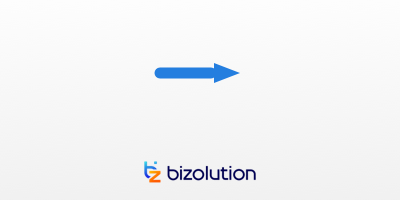
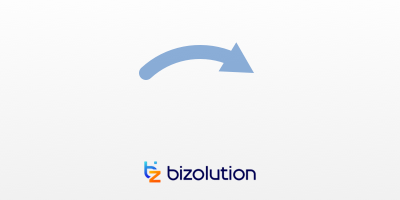
DMG-Hintergrund: Pfeil als PNG-Asset und Komposition vereinheitlicht
- RenderDMGBackground zeichnet Verlauf, dmg_arrow.png (50 % Deckkraft) und Footer-Logo; Pfade über Resources.
- dmg_arrow.png und optionales BakeDMGArrowPNG.swift; Mockup-Referenz unter docs/mockups/.
- dmg_layout_constants: DMG_ICON_Y wieder 70 (Finder-Kalibrierung), Kommentar zur Abweichung vom theoretischen iconYFinder.
- DMG_HINTERGRUND.txt, README und Cursor-Regeln um Pipeline und Ablage ergänzt.

Made-with: Cursor

Changed region(s): [[0.33, 0.21, 0.63, 0.42]]

diff --git a/Scripts/RenderDMGBackground.swift b/Scripts/RenderDMGBackground.swift
@@ -1,12 +1,12 @@
 #!/usr/bin/env swift
 // Erzeugt Scripts/dmg_install_background.png — **400×200 @72dpi** (feste Vorgabe).
-// Außenfenster: dmg_layout_constants.sh (gleiche Zahl wie PNG-Breite/-höhe oder minimal +Chrome).
 //
-// Vorgaben (top-down, y nach unten, Ursprung oben links):
-// - Logo unten, 10 px zum unteren Rand, horizontal mittig.
-// - Pfeil: horizontal Bildmitte W/2; vertikal Mitte zwischen y=0 und (Logo-Oberkante − 10 px).
-//   Die Pfeilmitte (Schaft) liegt genau auf diesem Punkt; Finder-Icons: vertikal Icon-Mitte = Pfeilmitte.
-// Zeichnung intern Cocoa (y nach oben): rowCocoa = H − y_td.
+// Ablage: Pfeil und Footer-Logo liegen unter Sources/TradeERPLauncherLib/Resources/ (mit den übrigen Marken-Assets);
+// das fertige Hintergrund-PNG liegt unter Scripts/ (Build-Ausgabe, nicht im App-Bundle). Layout-Zahlen für
+// create-dmg: Scripts/dmg_layout_constants.sh — bei Geometrie-Änderungen Renderer und Shell synchron halten.
+// Details: Scripts/DMG_HINTERGRUND.txt
+//
+// Zeichnung: Verlauf → Pfeil-PNG (zentriert, Opacity siehe dmgArrowOpacity) → Logo (rsvg). Cocoa: y nach oben.
 
 import AppKit
 import Foundation
@@ -14,7 +14,8 @@ import Foundation
 let W: CGFloat = 400
 let H: CGFloat = 200
 let iconSize: CGFloat = 88
-let brandAccent = NSColor(red: 0x24 / 255, green: 0x7E / 255, blue: 0xDF / 255, alpha: 1)
+/// Pfeil-PNG: `NSImage.draw(…, fraction:)` — 0…1, visuell 50 % Deckkraft.
+let dmgArrowOpacity: CGFloat = 0.5
 
 /// Footer-Logo: Breite und Höhe in **PNG-Punkten** (klar lesbar; bei anderem Motiv beide Werte anpassen).
 /// Footer-Logo: `bizolution-logo-farbe-rgb.svg` (viewBox ~3,69∶1).
@@ -31,8 +32,8 @@ let arrowCenterTD: CGFloat = (0 + bandBottomTD) / 2
 /// Pfeilmitte horizontal: Bildmitte
 let arrowCenterX: CGFloat = W / 2
 
-/// Icon-Mitten: horizontal symmetrisch um Pfeil, Abstand so dass 88-px-Icons nicht kollidieren (Pfeilhalblänge 40).
-let arrowHalf: CGFloat = 40
+/// Icon-Mitten: horizontal symmetrisch um Pfeil; Pfeilbreite entspricht `dmg_arrow.png`-Layout (arrowHalf).
+let arrowHalf: CGFloat = 54
 let iconGap: CGFloat = 20
 let iconCenterXLeft: CGFloat = arrowCenterX - arrowHalf - iconGap - iconSize / 2
 let iconCenterXRight: CGFloat = arrowCenterX + arrowHalf + iconGap + iconSize / 2
@@ -41,9 +42,9 @@ let iconCenterXRight: CGFloat = arrowCenterX + arrowHalf + iconGap + iconSize / 
 let iconYFinder: CGFloat = H - arrowCenterTD
 
 // create-dmg-Positionen müssen mit Scripts/dmg_layout_constants.sh übereinstimmen:
-//   DMG_ICON_X  = Int(round(iconCenterXLeft))
-//   DMG_DROP_X  = Int(round(iconCenterXRight))
-//   DMG_ICON_Y  = Int(round(iconYFinder))
+//   DMG_ICON_X  = Int(round(iconCenterXLeft))   // arrowHalf=54 → 82
+//   DMG_DROP_X  = Int(round(iconCenterXRight)) // → 318
+//   DMG_ICON_Y  = in dmg_layout_constants.sh (Finder-Kalibrierung, oft ≠ iconYFinder)
 
 func projectRoot() -> String {
     if CommandLine.arguments.count > 1 { return CommandLine.arguments[1] }
@@ -76,54 +77,21 @@ func renderLogoPNG(svgPath: String, widthPx: Int) -> NSImage? {
     return nil
 }
 
-func drawArrowHorizontal(from: NSPoint, to: NSPoint, lineWidth: CGFloat, color: NSColor) {
-    color.setStroke()
-    color.setFill()
-
-    let dx = to.x - from.x
-    let dy = to.y - from.y
-    let len = max(hypot(dx, dy), 1)
-    let ux = dx / len
-    let uy = dy / len
-    let headLen: CGFloat = 26
-    let headW: CGFloat = 20
-    let tip = to
-    let base = NSPoint(x: to.x - ux * headLen, y: to.y - uy * headLen)
-    let perpX = -uy * headW * 0.5
-    let perpY = ux * headW * 0.5
-    let left = NSPoint(x: base.x + perpX, y: base.y + perpY)
-    let right = NSPoint(x: base.x - perpX, y: base.y - perpY)
-    let shaftEnd = NSPoint(x: base.x - ux * 3, y: base.y - uy * 3)
-
-    let path = NSBezierPath()
-    path.lineWidth = lineWidth
-    path.lineCapStyle = .round
-    path.lineJoinStyle = .round
-    path.move(to: from)
-    path.line(to: shaftEnd)
-    path.stroke()
-
-    let headPath = NSBezierPath()
-    headPath.move(to: left)
-    headPath.line(to: tip)
-    headPath.line(to: right)
-    headPath.close()
-    headPath.fill()
-}
-
-func drawImage(_ image: NSImage, in rect: NSRect) {
+func drawImage(_ image: NSImage, in rect: NSRect, fraction: CGFloat = 1) {
     let sz = image.size
     guard sz.width > 0, sz.height > 0 else { return }
     image.draw(
         in: rect,
         from: NSRect(origin: .zero, size: sz),
         operation: .sourceOver,
-        fraction: 1
+        fraction: fraction
     )
 }
 
 let root = projectRoot()
-let svgLogo = (root as NSString).appendingPathComponent("Sources/TradeERPLauncherLib/Resources/bizolution-logo-farbe-rgb.svg")
+let resDir = (root as NSString).appendingPathComponent("Sources/TradeERPLauncherLib/Resources")
+let svgLogo = (resDir as NSString).appendingPathComponent("bizolution-logo-farbe-rgb.svg")
+let arrowPNG = (resDir as NSString).appendingPathComponent("dmg_arrow.png")
 let outPath = (root as NSString).appendingPathComponent("Scripts/dmg_install_background.png")
 
 let Wi = Int(W)
@@ -153,14 +121,19 @@ let grad = NSGradient(colors: [bgBot, bgTop], atLocations: [0, 1], colorSpace: N
 grad.draw(in: NSRect(x: 0, y: 0, width: W, height: H), angle: 90)
 
 let rowCenterCocoa = H - arrowCenterTD
-let ax1 = arrowCenterX - arrowHalf
-let ax2 = arrowCenterX + arrowHalf
-drawArrowHorizontal(
-    from: NSPoint(x: ax1, y: rowCenterCocoa),
-    to: NSPoint(x: ax2, y: rowCenterCocoa),
-    lineWidth: 11,
-    color: brandAccent
-)
+if let arrow = NSImage(contentsOfFile: arrowPNG) {
+    let aw = arrow.size.width
+    let ah = arrow.size.height
+    let arrowRect = NSRect(
+        x: arrowCenterX - aw / 2,
+        y: rowCenterCocoa - ah / 2,
+        width: aw,
+        height: ah
+    )
+    drawImage(arrow, in: arrowRect, fraction: dmgArrowOpacity)
+} else {
+    fputs("Hinweis: Pfeil-PNG fehlt (\(arrowPNG)) — Hintergrund ohne Pfeil. Datei anlegen oder `swift Scripts/BakeDMGArrowPNG.swift` ausführen.\n", stderr)
+}
 
 let logoRect = NSRect(
     x: (W - logoW) / 2,

diff --git a/Scripts/BakeDMGArrowPNG.swift b/Scripts/BakeDMGArrowPNG.swift
@@ -1,0 +1,145 @@
+#!/usr/bin/env swift
+// Optional: schreibt Sources/TradeERPLauncherLib/Resources/dmg_arrow.png (240×120 @1x, transparent).
+// Üblich: Pfeil im Grafikprogramm bearbeiten. Dieses Skript nur, wenn dieselbe Kurve wie früher reproduziert
+// werden soll — siehe Scripts/DMG_HINTERGRUND.txt
+// Aufruf: swift Scripts/BakeDMGArrowPNG.swift [<repo-root>]
+//
+// Geometrie: **arrowHalf** und **arrowBulge** müssen mit Scripts/RenderDMGBackground.swift übereinstimmen.
+// bakeW×bakeH: Pfeil zentriert wie im 400×200-Hintergrund; bei geänderter Asset-Größe Renderer-Rect prüfen.
+
+import AppKit
+import CoreGraphics
+import Foundation
+
+let arrowHalf: CGFloat = 54
+let arrowBulge: CGFloat = 28
+let lineWidth: CGFloat = 14
+let headLen: CGFloat = 36
+let headW: CGFloat = 34
+
+let bakeW: CGFloat = 240
+let bakeH: CGFloat = 120
+let arrowBlueDark = NSColor(red: 0x1a / 255, green: 0x5f / 255, blue: 0xb4 / 255, alpha: 1)
+
+func cubicPoint(_ t: CGFloat, _ p0: CGPoint, _ p1: CGPoint, _ p2: CGPoint, _ p3: CGPoint) -> CGPoint {
+    let mt = 1 - t
+    let a = mt * mt * mt
+    let b = 3 * mt * mt * t
+    let c = 3 * mt * t * t
+    let d = t * t * t
+    return CGPoint(
+        x: a * p0.x + b * p1.x + c * p2.x + d * p3.x,
+        y: a * p0.y + b * p1.y + c * p2.y + d * p3.y
+    )
+}
+
+func splitCubicLeft(u: CGFloat, p0: CGPoint, p1: CGPoint, p2: CGPoint, p3: CGPoint) -> (CGPoint, CGPoint, CGPoint, CGPoint) {
+    let p01 = CGPoint(x: (1 - u) * p0.x + u * p1.x, y: (1 - u) * p0.y + u * p1.y)
+    let p12 = CGPoint(x: (1 - u) * p1.x + u * p2.x, y: (1 - u) * p1.y + u * p2.y)
+    let p23 = CGPoint(x: (1 - u) * p2.x + u * p3.x, y: (1 - u) * p2.y + u * p3.y)
+    let p012 = CGPoint(x: (1 - u) * p01.x + u * p12.x, y: (1 - u) * p01.y + u * p12.y)
+    let p123 = CGPoint(x: (1 - u) * p12.x + u * p23.x, y: (1 - u) * p12.y + u * p23.y)
+    let p0123 = CGPoint(x: (1 - u) * p012.x + u * p123.x, y: (1 - u) * p012.y + u * p123.y)
+    return (p0, p01, p012, p0123)
+}
+
+func projectRoot() -> String {
+    if CommandLine.arguments.count > 1 { return CommandLine.arguments[1] }
+    let cwd = FileManager.default.currentDirectoryPath
+    if cwd.hasSuffix("/Scripts") { return (cwd as NSString).deletingLastPathComponent }
+    return cwd
+}
+
+let root = projectRoot()
+let outPNG = (root as NSString).appendingPathComponent("Sources/TradeERPLauncherLib/Resources/dmg_arrow.png")
+
+let centerX = bakeW / 2
+let rowCocoa = bakeH / 2
+let ax1 = centerX - arrowHalf
+let ax2 = centerX + arrowHalf
+let span = ax2 - ax1
+let p0 = CGPoint(x: ax1, y: rowCocoa)
+let p1 = CGPoint(x: ax1 + span * 0.28, y: rowCocoa + arrowBulge)
+let p2 = CGPoint(x: ax1 + span * 0.72, y: rowCocoa + arrowBulge)
+let p3 = CGPoint(x: ax2, y: rowCocoa)
+
+let targetShaftToTip = headLen - lineWidth * 0.35
+var tLo: CGFloat = 0
+var tHi: CGFloat = 1
+for _ in 0 ..< 50 {
+    let mid = (tLo + tHi) * 0.5
+    let pm = cubicPoint(mid, p0, p1, p2, p3)
+    let dTip = hypot(p3.x - pm.x, p3.y - pm.y)
+    if dTip > targetShaftToTip {
+        tLo = mid
+    } else {
+        tHi = mid
+    }
+}
+let tCut = max(0.02, min((tLo + tHi) * 0.5, 0.998))
+
+let (q0, q1, q2, q3) = splitCubicLeft(u: tCut, p0: p0, p1: p1, p2: p2, p3: p3)
+let spine = CGMutablePath()
+spine.move(to: q0)
+spine.addCurve(to: q3, control1: q1, control2: q2)
+
+let ribbon = spine.copy(
+    strokingWithWidth: lineWidth,
+    lineCap: .round,
+    lineJoin: .round,
+    miterLimit: 4,
+    transform: .identity
+)
+
+let pCut = cubicPoint(tCut, p0, p1, p2, p3)
+let dxs = p3.x - pCut.x
+let dys = p3.y - pCut.y
+let slen = max(hypot(dxs, dys), 1)
+let uSpine = CGPoint(x: dxs / slen, y: dys / slen)
+let px = -uSpine.y * headW * 0.5
+let py = uSpine.x * headW * 0.5
+let left = CGPoint(x: pCut.x + px, y: pCut.y + py)
+let right = CGPoint(x: pCut.x - px, y: pCut.y - py)
+let tip = p3
+
+let head = NSBezierPath()
+head.move(to: left)
+head.line(to: tip)
+head.line(to: right)
+head.close()
+
+let Wi = Int(bakeW)
+let Hi = Int(bakeH)
+let rep = NSBitmapImageRep(
+    bitmapDataPlanes: nil,
+    pixelsWide: Wi,
+    pixelsHigh: Hi,
+    bitsPerSample: 8,
+    samplesPerPixel: 4,
+    hasAlpha: true,
+    isPlanar: false,
+    colorSpaceName: .deviceRGB,
+    bytesPerRow: 0,
+    bitsPerPixel: 0
+)!
+rep.size = NSSize(width: bakeW, height: bakeH)
+
+NSGraphicsContext.saveGraphicsState()
+let ctx = NSGraphicsContext(bitmapImageRep: rep)!
+ctx.imageInterpolation = .high
+NSGraphicsContext.current = ctx
+NSColor.clear.set()
+NSRect(x: 0, y: 0, width: bakeW, height: bakeH).fill()
+
+arrowBlueDark.setFill()
+NSBezierPath(cgPath: ribbon).fill()
+head.fill()
+
+NSGraphicsContext.restoreGraphicsState()
+
+guard let data = rep.representation(using: .png, properties: [:]) else {
+    fputs("Fehler: PNG-Kodierung fehlgeschlagen.\n", stderr)
+    exit(1)
+}
+try data.write(to: URL(fileURLWithPath: outPNG))
+print(outPNG)

diff --git a/README.md b/README.md
@@ -93,7 +93,7 @@ swiftc -O Sources/TradeERPLauncherLib/*.swift -o TradeERPLauncher \
   -sdk "$(xcrun --sdk macosx --show-sdk-path)" -target arm64-apple-macosx13.0
 ```
 
-**Build-Werkzeuge (optional):** Zum Erzeugen von **`AppIcon.icns`** und DMG-Hintergrund nutzen die Skripte u. a. **`rsvg-convert`** (Paket **librsvg**, unter Homebrew typischerweise **LGPL**) — nur als **externes** Kommandozeilenprogramm, **ohne** Einbindung in die Launcher-Binary. Optional: **`create-dmg`** für das DMG-Layout. Details und weitere Drittanbieter: **`THIRD_PARTY_NOTICES.md`**.
+**Build-Werkzeuge (optional):** Zum Erzeugen von **`AppIcon.icns`** und dem **DMG-Hintergrund** (`Scripts/RenderDMGBackground.swift`: Verlauf + **`Sources/TradeERPLauncherLib/Resources/dmg_arrow.png`** + Footer-Logo-SVG) nutzen die Skripte u. a. **`rsvg-convert`** (Paket **librsvg**, unter Homebrew typischerweise **LGPL**) — nur als **externes** Kommandozeilenprogramm, **ohne** Einbindung in die Launcher-Binary. Optional: **`create-dmg`** für das DMG-Layout; Konstanten **`Scripts/dmg_layout_constants.sh`**, Überblick **`Scripts/DMG_HINTERGRUND.txt`**. Weitere Drittanbieter: **`THIRD_PARTY_NOTICES.md`**.
 
 **.app-Bundle:**
 
